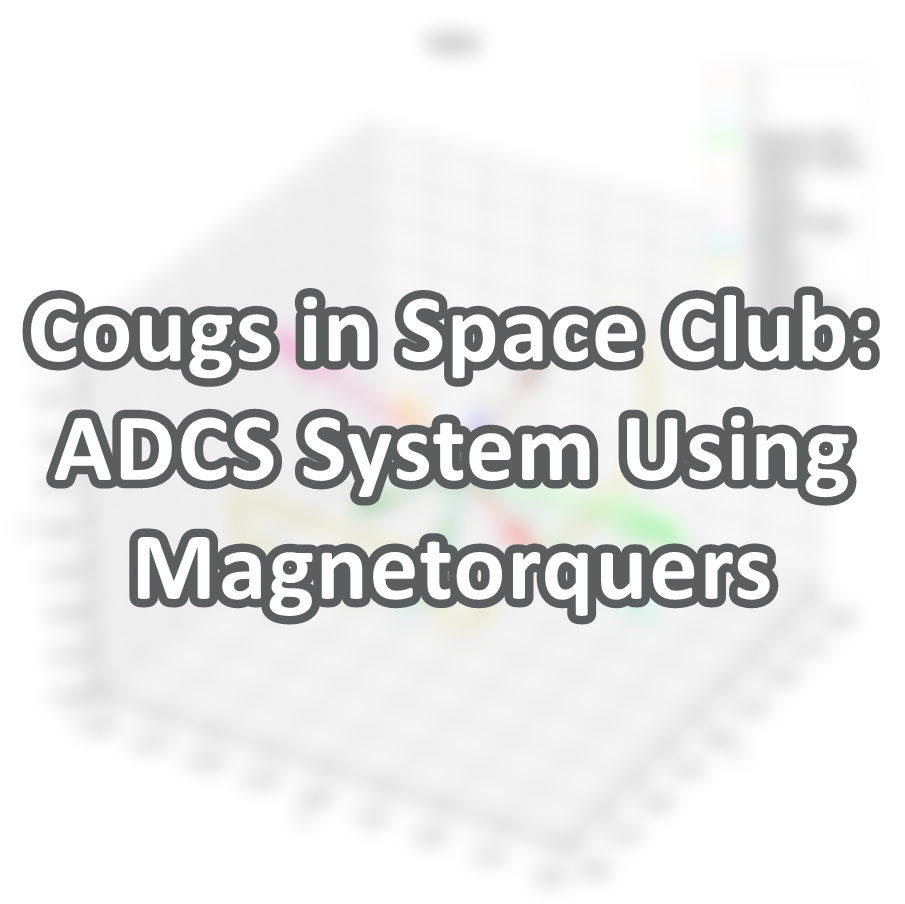
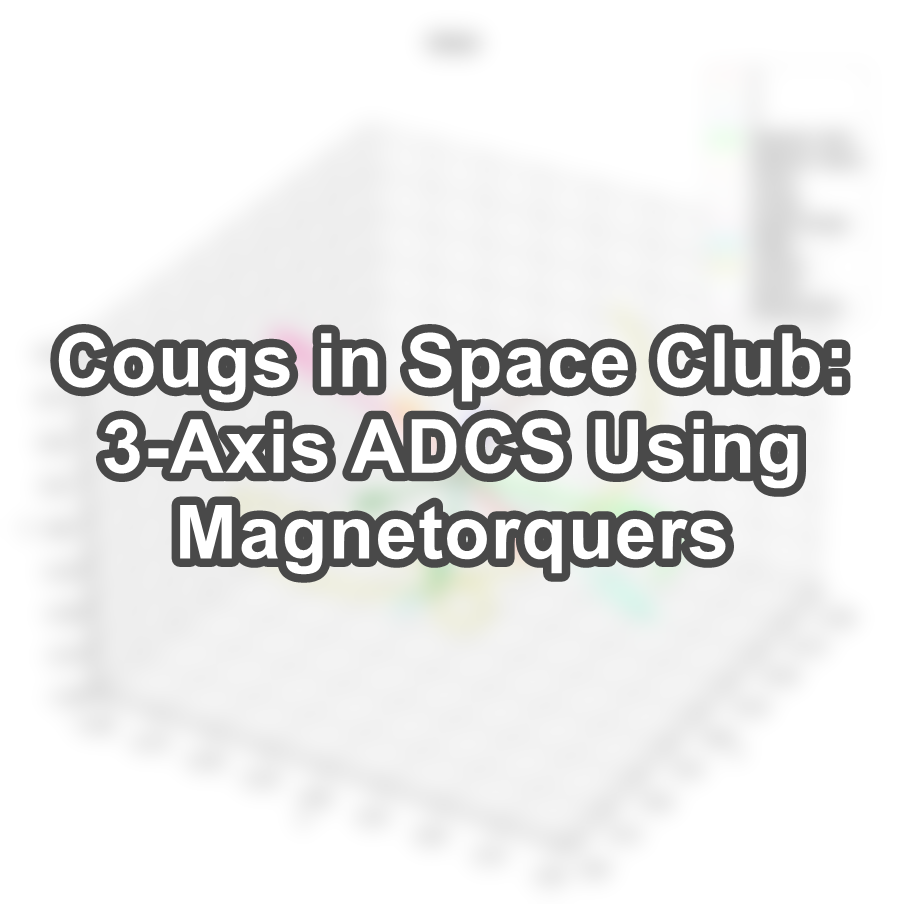
Changed ADCS System to just ADCS

Changed region(s): [[0.0, 0.3097, 0.9901, 0.7124]]

diff --git a/projects/attitude control.html b/projects/attitude control.html
@@ -38,7 +38,7 @@
         <div class="row descRow">
             <div class="col-xs-12 col-sm-6">
                 <h2 class="display-6 descTitle">
-                    Cougs in Space Club: ADCS System Using Magnetorquers
+                    Cougs in Space Club: 3-Axis ADCS Using Magnetorquers
                 </h2>
                 <h3>
                     Skills: [Simulink, Python, Control System Design, 3-Axis Attitude Control of Satellites]
@@ -54,7 +54,7 @@
                 <p class="descP">
                     This was the main project I worked on while in the Cougs in Space club at WSU. The goal of Cougs in Space is to build a 
                     small 1U CubeSat that will eventually be launched into Low Earth Orbit. I was on the Attitude Control subteam which was 
-                    tasked with building the satellite's ADCS (Attitude Control and Determination System). The chosen Attitude Control method
+                    tasked with building the satellite's ADCS (Attitude Determination and Control System). The chosen Attitude Control method
                      was magnetorquers, which have the advantage of being simple and requiring little energy. However, they have a key limitation, 
                      which is that unlike reaction wheels they can't produce a torque in any desired direction. They are instead limited to torques in the plane perpendicular 
                      to the vector of the earth's magnetic field. This makes developing a control system considerably more 

diff --git a/projects/wood safe.html b/projects/wood safe.html
@@ -12,7 +12,6 @@
 
     <link href="https://cdn.jsdelivr.net/npm/bootstrap@5.1.0/dist/css/bootstrap.min.css" rel="stylesheet" integrity="sha384-KyZXEAg3QhqLMpG8r+8fhAXLRk2vvoC2f3B09zVXn8CA5QIVfZOJ3BCsw2P0p/We" crossorigin="anonymous">
 
-
     <link rel="stylesheet" href="../stylesheet.css">
 
 
@@ -34,6 +33,7 @@
             
         </div>
     </nav>
+
     <div class="container-fluid">
         <div class="row descRow">
             <div class="col-xs-12 col-sm-6">
